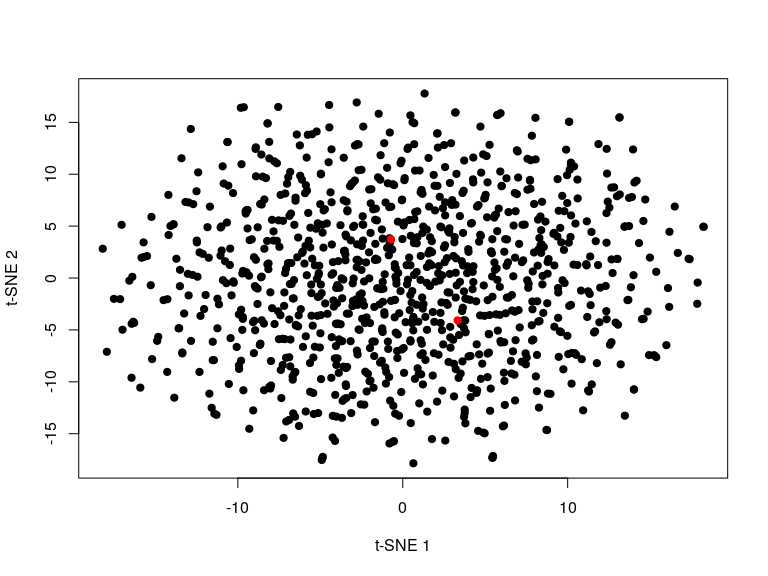
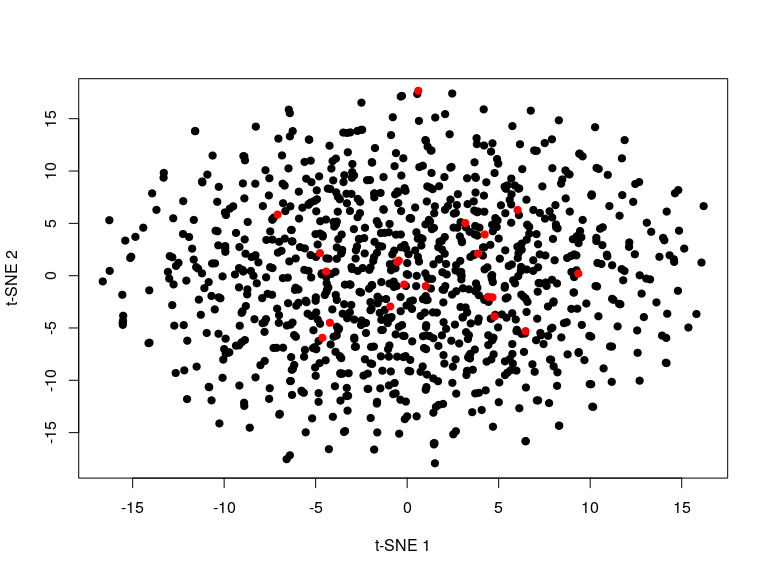
More projected points

diff --git a/README.md b/README.md
@@ -20,10 +20,11 @@ Basic usage of the function returns a matrix of t-SNE coordinates.
 
 We can also project new points into an existing embedding.
 
-    snifter <- fi_tsne(m[-(1:2), ], random_state = 42L)
+    n <- 20
+    snifter <- fi_tsne(m[-(1:n), ], random_state = 42L)
     plot(snifter, pch = 19, col = "black",
         xlab = "t-SNE 1", ylab = "t-SNE 2")
-    new <- project(snifter, m[1:2, ], old = m[-c(1:2), ])
+    new <- project(snifter, m[1:n, ], old = m[-c(1:n), ])
     points(new, pch = 19, col = "red")
 
 <img src="man/figures/README-unnamed-chunk-3-1.png" width="100%" />
